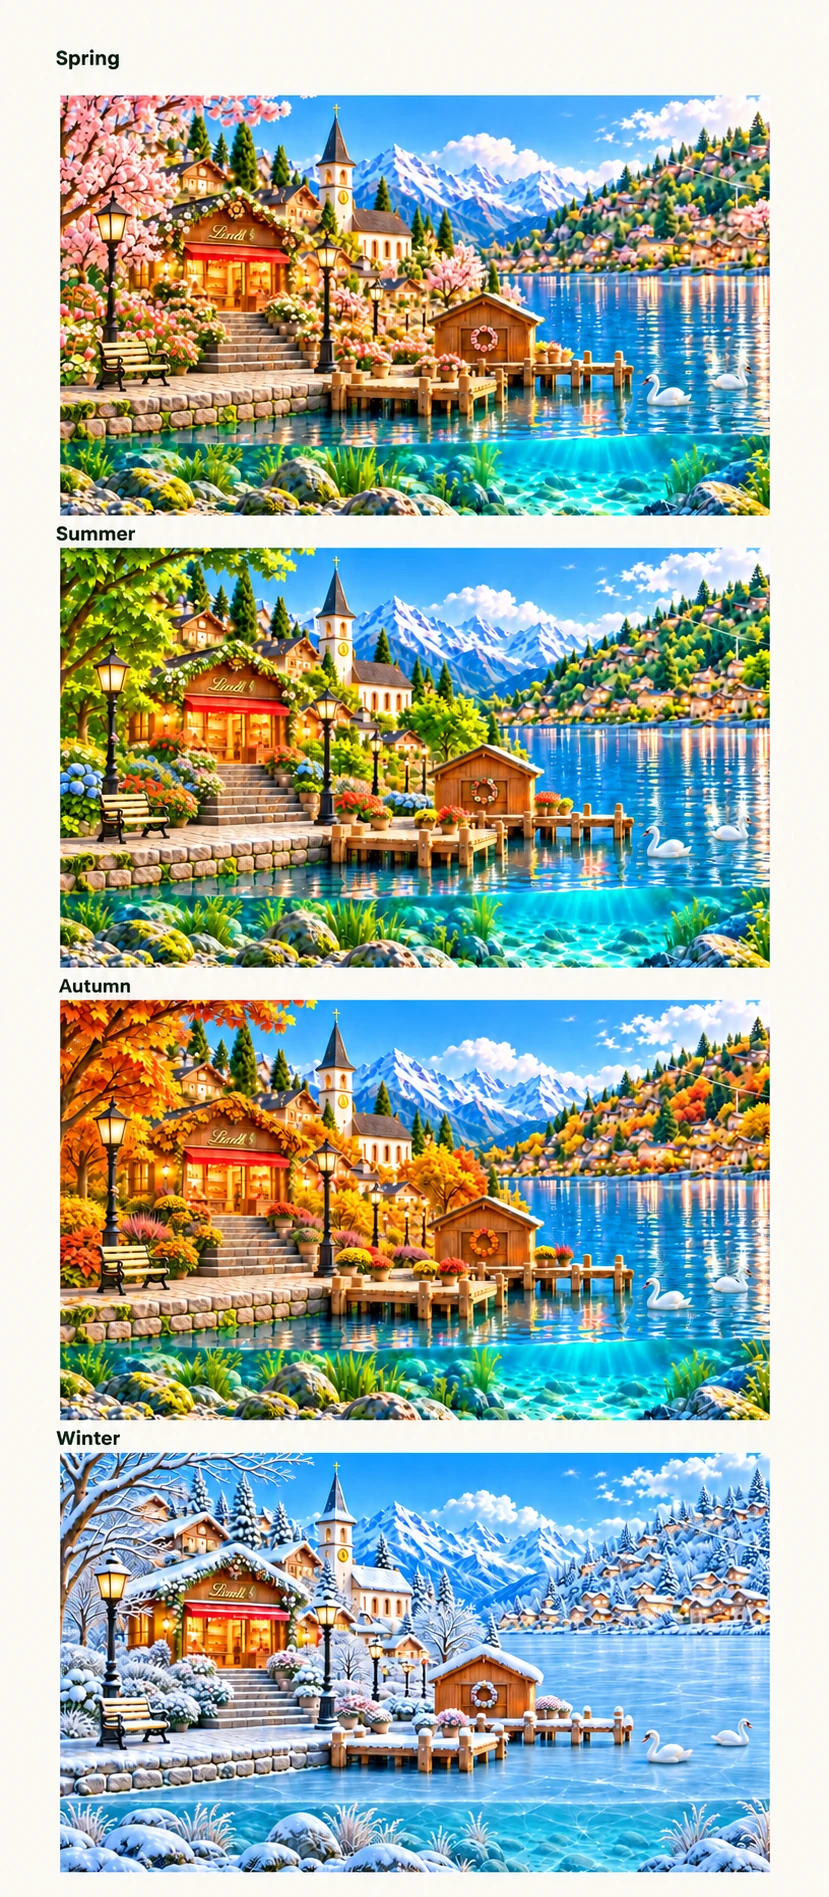
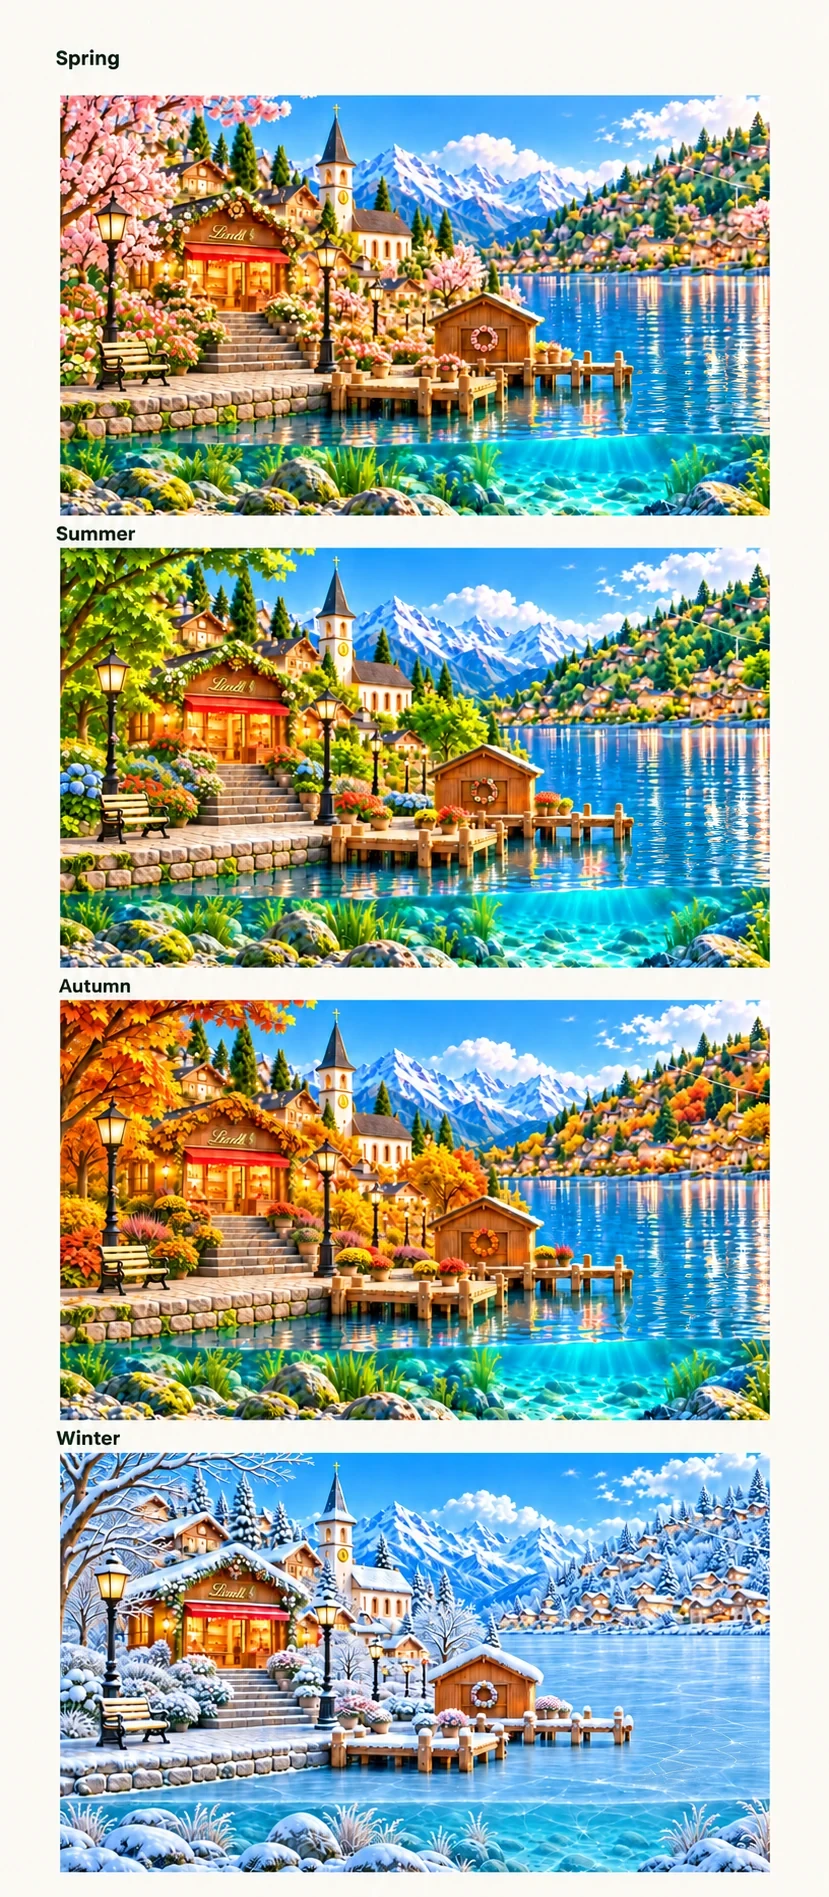
Weather Aquarium: remove swans from 4-season backgrounds and drop nearSwan/farSwan shader lines (Lu #24737, pm #24764)

diff --git a/public/lab/weather-aquarium/motion/motion.js b/public/lab/weather-aquarium/motion/motion.js
@@ -24,9 +24,6 @@ float front=band(p.x,.80,1.02,.025)*band(p.y,.755,.81,.014);
 float water=${winter?'0.':'max(lake,front)'};
 shift.x+=water*.0012*(sin(p.y*290.+wave)-sin(p.y*290.));
 shift.y+=water*.00035*(sin(p.x*170.+wave)-sin(p.x*170.));
-float nearSwan=band(p.x,.81,.905,.012)*band(p.y,.65,.752,.014);
-float farSwan=band(p.x,.915,.988,.012)*band(p.y,.60,.705,.014);
-shift.x+=(nearSwan-farSwan)*${winter?'0.':'.008'}*localMotion;
 vec3 color=texture2D(art,p+shift).rgb;
 float glint=water*.018*(sin(p.y*450.+p.x*31.+wave)-sin(p.y*450.+p.x*31.));
 gl_FragColor=vec4(clamp(color+glint,0.,1.),1.);}`}
